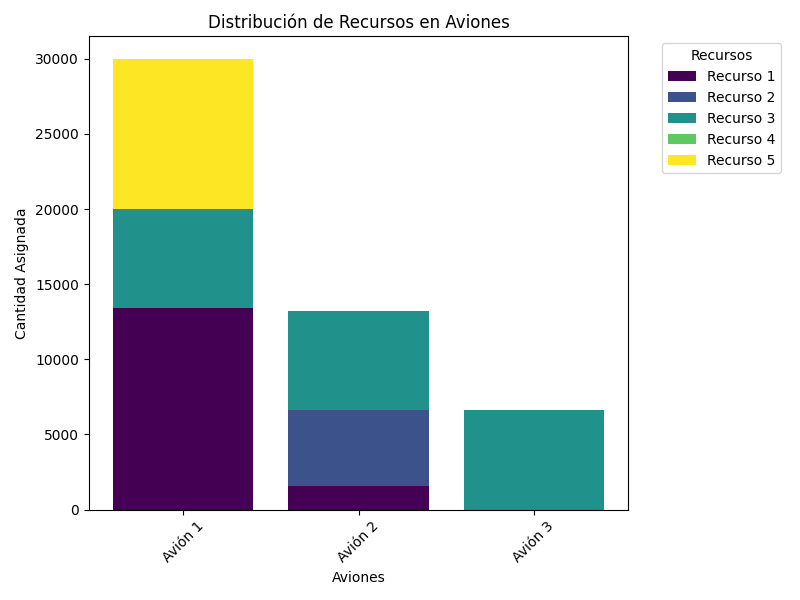
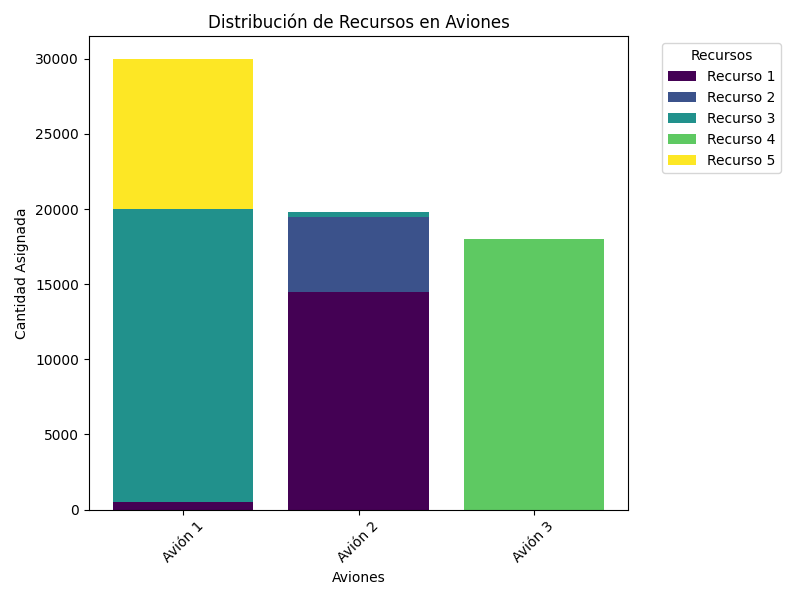
Corregido ejercicio 1, era array de numeros, no un solo numero para el *300

Changed region(s): [[0.125, 0.33, 0.7812, 0.87]]

diff --git a/exercise_1.py b/exercise_1.py
@@ -24,13 +24,13 @@ Model = ConcreteModel()
 Model.x = Var(recursos_disponibles, aviones_disponibles,
               domain=NonNegativeReals)
 
-# Define an auxiliary integer variable for Carne
-Model.y_equipos_medicos = Var(domain=NonNegativeIntegers)
+Model.y_equipos_medicos = Var(aviones_disponibles, domain=NonNegativeIntegers)
 
+# Luego modifica la restricción
 Model.enteros = ConstraintList()
 for a in aviones_disponibles:
     Model.enteros.add(
-        Model.x[3, a] == 300 * Model.y_equipos_medicos
+        Model.x[3, a] == 300 * Model.y_equipos_medicos[a]
     )
 
 
@@ -71,15 +71,15 @@ Model.compatibilidad = ConstraintList()
 for j in aviones_disponibles:
     Model.compatibilidad.add(Model.y_medicos[j] + Model.y_agua[j] <= 1)
 
-M = sum(avion["peso"] for avion in aviones.values())**2  # Un valor grande
-
+M = (sum(avion["peso"]
+     for avion in aviones.values())**2)*100  # Un valor grande
 for j in aviones_disponibles:
     Model.recurso_medico_activado.add(
-        sum(Model.x[3, j]
-            for i in recursos_disponibles) <= M * Model.y_medicos[j]
+        Model.x[3, j]
+        <= M * Model.y_medicos[j]
     )
     Model.recurso_agua_activado.add(
-        sum(Model.x[4, j] for i in recursos_disponibles) <= M * Model.y_agua[j]
+        Model.x[4, j] <= M * Model.y_agua[j]
     )
 
 
@@ -87,6 +87,7 @@ Solver = SolverFactory('glpk')
 
 Results = Solver.solve(Model)
 
+print(Model.display())
 # Print the matrix representation of X[i, j]
 # Print the matrix in a structured table format
 print("\nX Matrix:")

diff --git a/exercise_5_2.py b/exercise_5_2.py
@@ -6,7 +6,7 @@ from help_functions import *
 
 nodes = 5
 spread = '2.5'
-K = 5  # Puedes modificar este valor según necesites
+K = 3  # Puedes modificar este valor según necesites
 
 
 def leer_matriz_csv(nombre_archivo=f'cost_matrix_{nodes}_nodes_{spread}_spread.csv', folder='Lab2_github/files_support/'):
